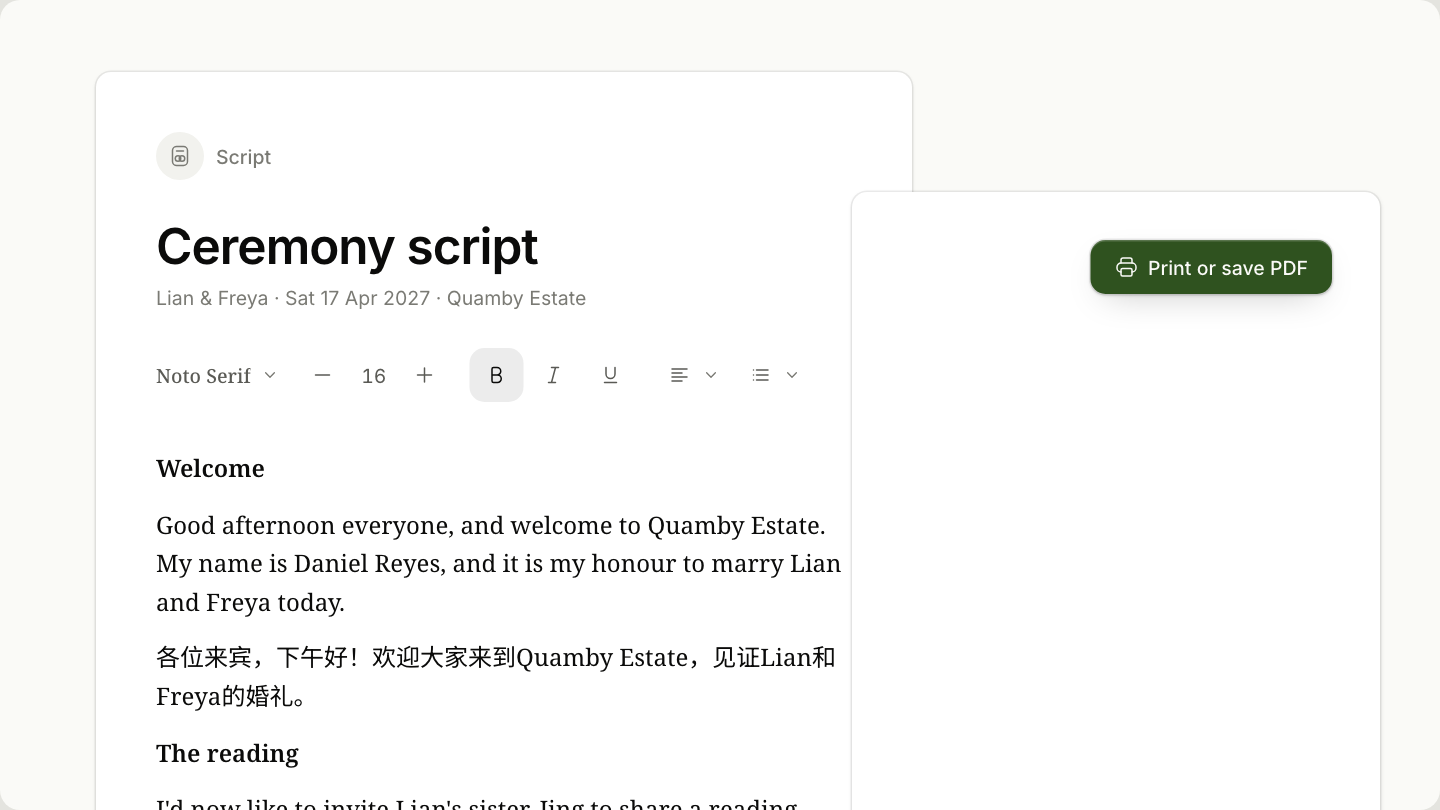
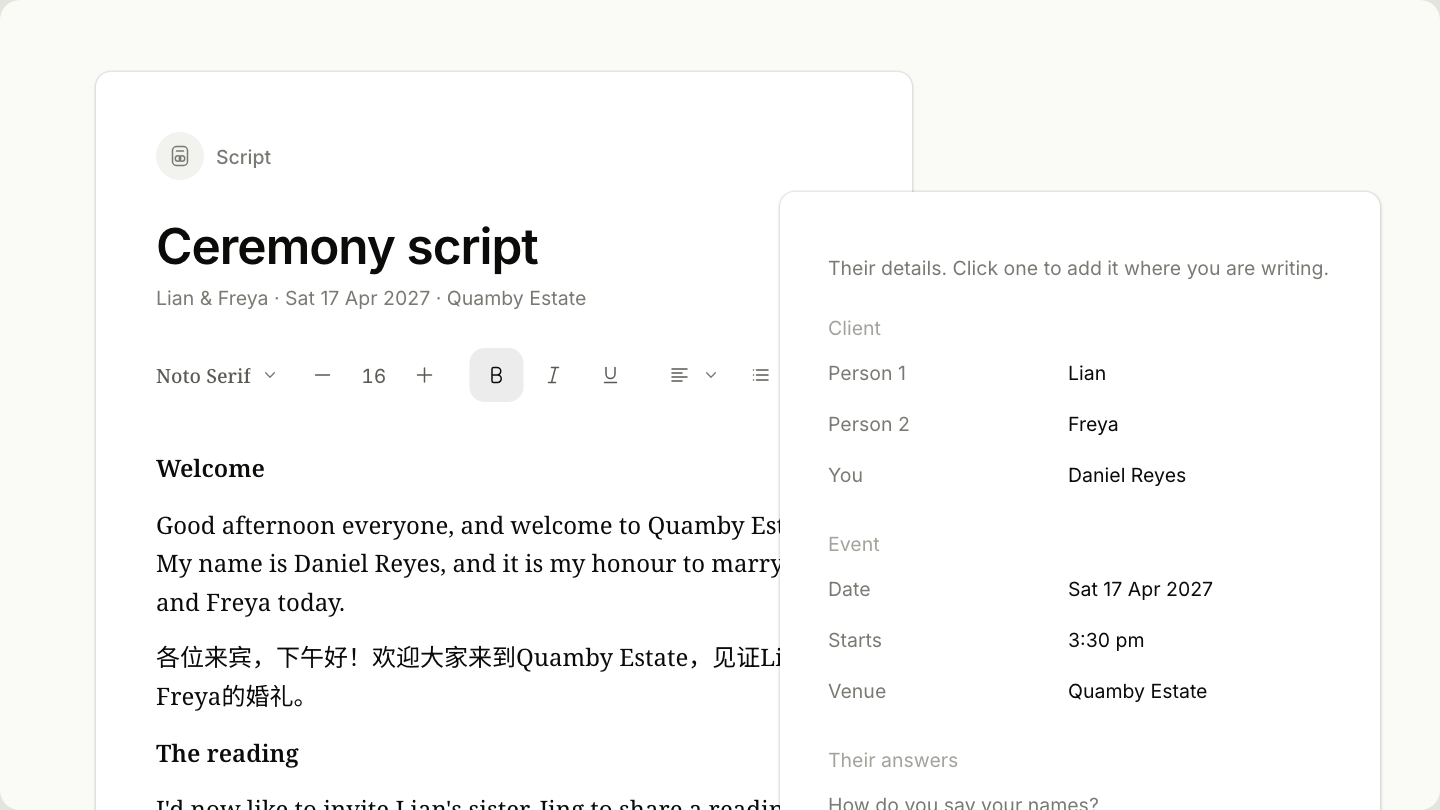
Fix the Email, Journeys and Ceremony scripts pictures on /blocks
Email and Journeys had no picture, so their cards showed an icon and
the same bullets printed underneath. Journeys now has a real capture
of the app's Journeys line, and Email shows the branded thank-you
email until the app has its own picture.

The Ceremony scripts picture hid the couple's details panel, leaving
the right card blank but for Print. Recaptured with the details shown.

diff --git a/components/site/block-picture.tsx b/components/site/block-picture.tsx
@@ -1,16 +1,19 @@
 import Image from 'next/image';
 
-import { CheckIcon } from '@/components/ui-v2/icons';
-
-import { BlockMark } from './block-mark';
 import { blockById } from './catalog';
 
 /**
  * A block's picture on the site: a 2x capture of the block's product
  * image from the app (`public/site/block-<id>.png`, made by
- * `scripts/capture-product-shots.mjs`), or, for a block with no image yet,
- * its mark and first three specifics on the quiet canvas. Decorative: the
- * card's own heading and copy say what it shows.
+ * `scripts/capture-product-shots.mjs`). Decorative: the card's own
+ * heading and copy say what it shows.
+ *
+ * Email has no product image in the app yet. It used to fall back to
+ * its icon and first three bullets on a grey panel, which repeated the
+ * bullets printed right under it (founder, 2026-10-19). Until the app
+ * gains its image, it shows the branded thank-you email the Journeys
+ * band sends (`journey-welcome.png`, a real capture). When it does, add
+ * the id to `PICTURED`, re-run the capture script, and drop the stand-in.
  *
  * @module components/site/block-picture
  */
@@ -28,7 +31,13 @@ const PICTURED = new Set([
   'scripts',
   'bdm',
   'calendar',
+  'workflows',
 ]);
+
+/** Blocks shown with another capture until their own exists. */
+const STAND_INS: Record<string, string> = { 'email-marketing': '/site/journey-welcome.png' };
+
+const BOX = 'aspect-video w-full rounded-panel';
 
 /** The picture for a block, by catalogue id. */
 export function BlockPicture({ id }: { id: string }) {
@@ -42,20 +51,22 @@ export function BlockPicture({ id }: { id: string }) {
         width={1440}
         height={810}
         sizes="(min-width: 1024px) 352px, (min-width: 768px) 50vw, 100vw"
-        className="aspect-video w-full rounded-panel"
+        className={BOX}
       />
     );
-  return (
-    <div aria-hidden="true" className="flex aspect-video flex-col justify-center gap-3 rounded-panel bg-zebra-50 px-6">
-      <BlockMark block={block} />
-      <ul className="space-y-1.5">
-        {block.bullets.slice(0, 3).map((b) => (
-          <li key={b} className="flex items-center gap-2 type-body text-zebra-600">
-            <CheckIcon aria-hidden="true" className="size-3.5 shrink-0 text-grass-700" />
-            {b}
-          </li>
-        ))}
-      </ul>
-    </div>
-  );
+  const standIn = STAND_INS[block.id];
+  if (standIn)
+    return (
+      <Image
+        src={standIn}
+        alt=""
+        width={1360}
+        height={960}
+        sizes="(min-width: 1024px) 352px, (min-width: 768px) 50vw, 100vw"
+        // The email's head and greeting are what matter; the signature can fall off the foot.
+        className={`${BOX} object-cover object-top`}
+      />
+    );
+  return <div aria-hidden="true" className={`${BOX} bg-zebra-50`} />;
 }
+
